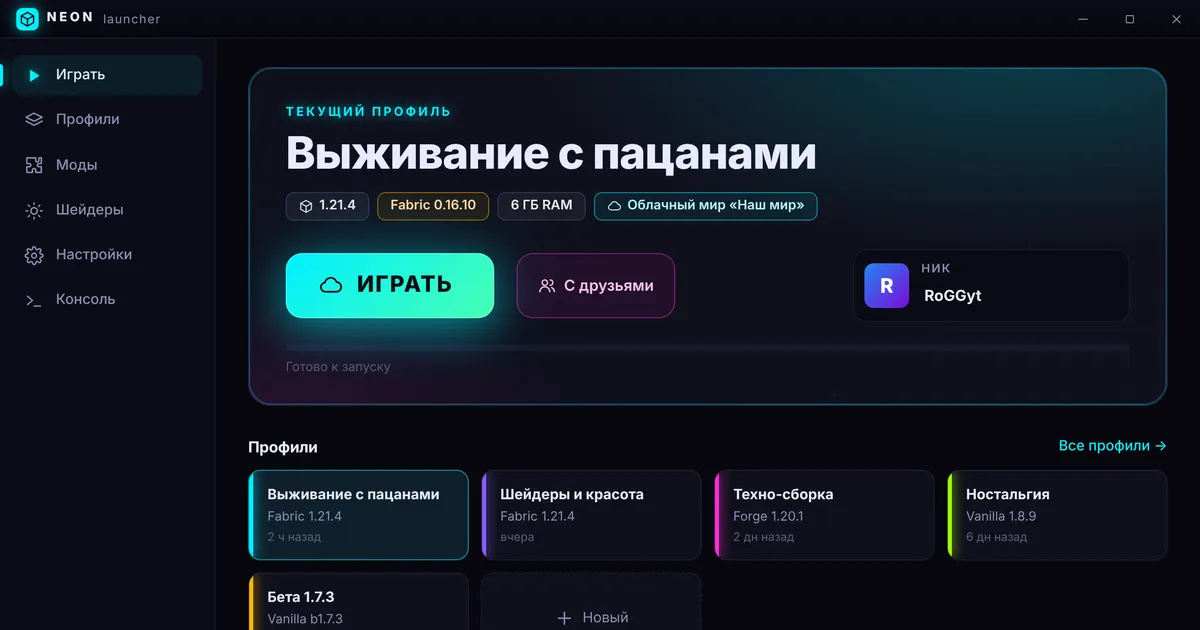
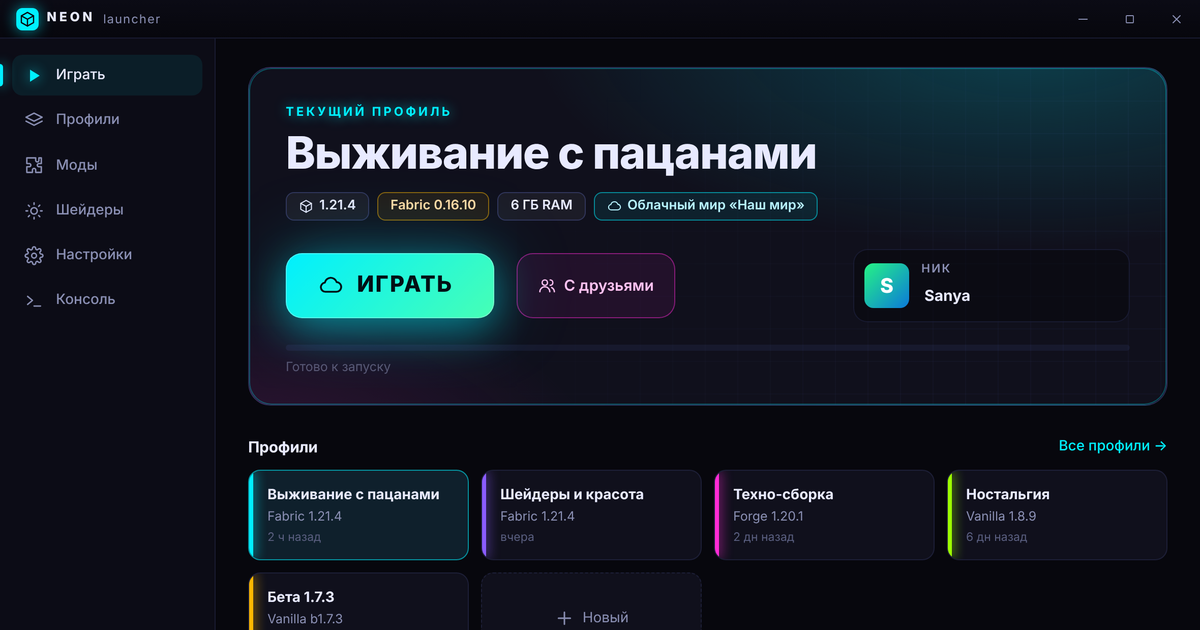
Сайт: убран ник автора из текста и скриншотов
Claude-Session: https://claude.ai/code/session_01WSRrQPcsXzJ1tX27End9jZ

diff --git a/site/index.html b/site/index.html
@@ -195,7 +195,7 @@
 
   <footer>
     <div class="wrap">
-      <span>Neon Launcher, сделал RoGGyt</span>
+      <span>Neon Launcher</span>
       <span>Не связан с Mojang и Microsoft. Minecraft — товарный знак Mojang AB.</span>
       <a href="https://github.com/RoGGyt/neon-launcher/releases">Все версии</a>
     </div>
@@ -233,7 +233,7 @@
       const verEl = sim.querySelector('.js-ver');
       const CLOUD = { x: 50, y: 22 };
       const people = [
-        { name: 'RoGGyt', color: 'linear-gradient(135deg,#00c2ff,#5b6cff)', x: 17, y: 54 },
+        { name: 'Sanya', color: 'linear-gradient(135deg,#00c2ff,#5b6cff)', x: 17, y: 54 },
         { name: 'Vasya', color: 'linear-gradient(135deg,#ff5ea8,#8a5cff)', x: 50, y: 61 },
         { name: 'Vika', color: 'linear-gradient(135deg,#9dff00,#1fb36b)', x: 83, y: 54 },
       ].map(p => ({ ...p, online: false, host: false, role: '' }));
@@ -290,7 +290,7 @@
         if (act === 'start') {
           people.forEach(p => { p.online = true; p.waiting = true; p.role = 'ждёт…'; });
           await becomeHost(people[0]);
-          log('Все в игре: RoGGyt хост, Vasya и Vika подключились к нему сами.');
+          log('Все в игре: Sanya хост, Vasya и Vika подключились к нему сами.');
         } else if (act === 'leave' || act === 'crash') {
           const h = host();
           const others = people.filter(p => p.online && p !== h);
